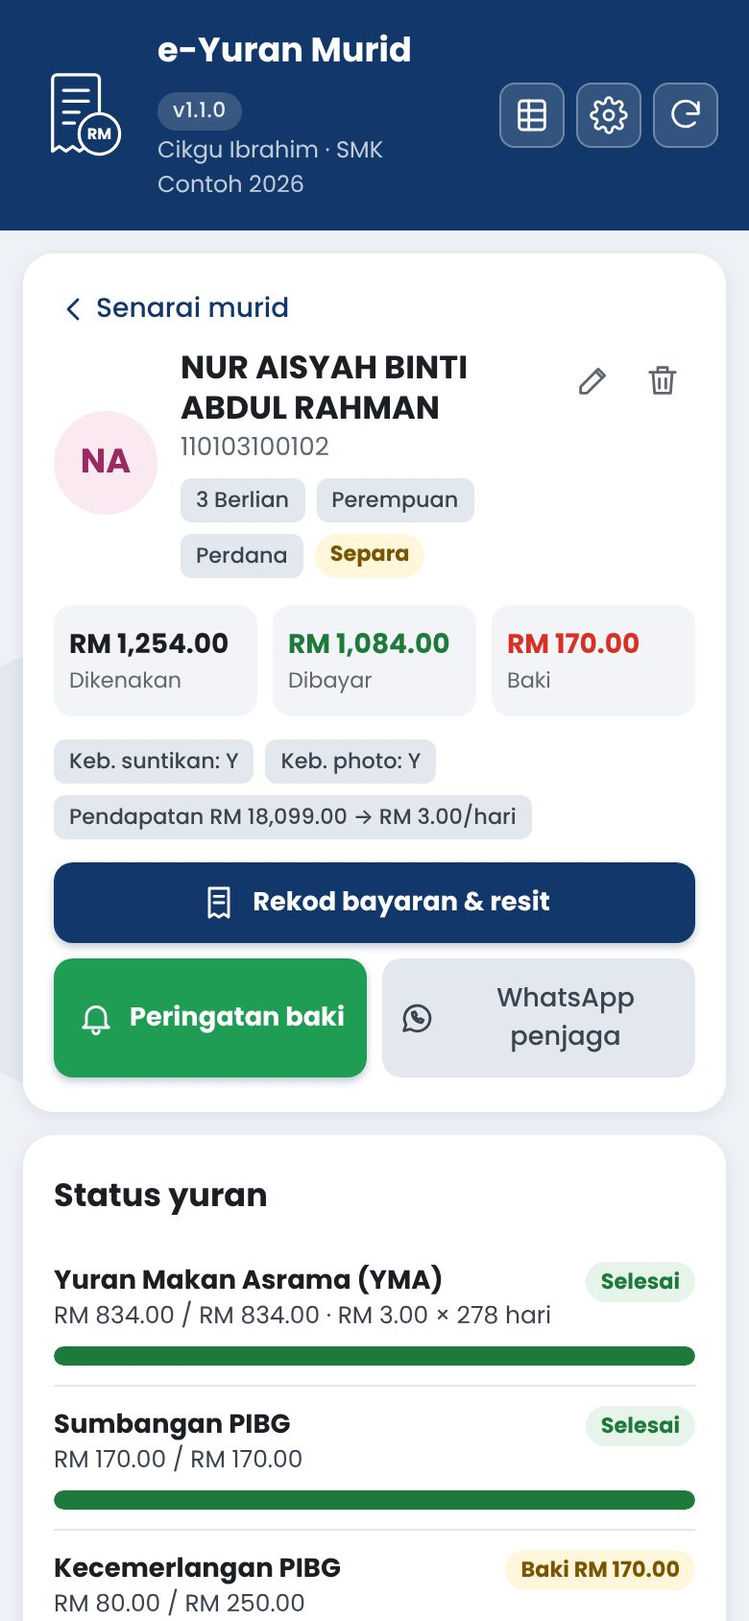
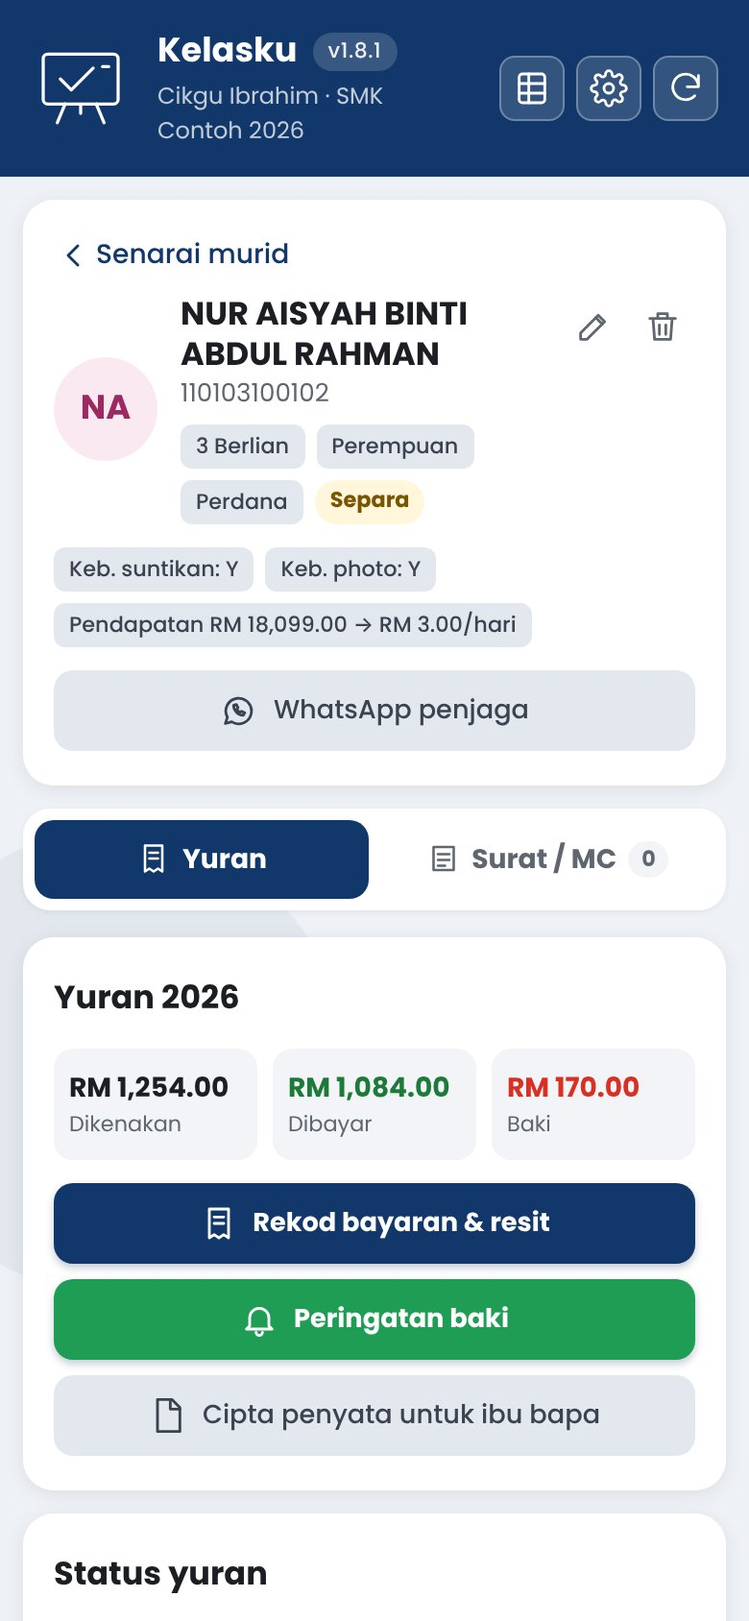
v1.8.1: Tab modul (Yuran / Surat MC) di halaman murid; README & halaman pengenalan disusun ikut modul
Claude-Session: https://claude.ai/code/session_01KuVRpLkTuLi7cEMoJuzni8

diff --git a/docs/index.html b/docs/index.html
@@ -4,9 +4,9 @@
 <meta charset="utf-8">
 <meta name="viewport" content="width=device-width, initial-scale=1">
 <title>Kelasku — pembantu digital guru kelas</title>
-<meta name="description" content="Web app percuma untuk guru merekod bayaran yuran murid (YMA, PIBG, dobi) ke Google Sheets, dengan resit dari WhatsApp ibu bapa, ringkasan kutipan dan mesej WhatsApp automatik.">
+<meta name="description" content="Kelasku — web app percuma untuk guru kelas: rekod yuran murid &amp; resit WhatsApp ibu bapa, simpan eviden surat sakit / MC dengan OCR, ringkasan kutipan dan mesej WhatsApp automatik. Data dalam Google Sheets &amp; Drive anda.">
 <meta property="og:title" content="Kelasku — pembantu digital guru kelas">
-<meta property="og:description" content="Rekod yuran murid & resit WhatsApp ibu bapa ke Google Sheets. Percuma, mesra telefon.">
+<meta property="og:description" content="Pembantu digital guru kelas: yuran &amp; resit, surat sakit / MC. Percuma, mesra telefon, data dalam Google Drive anda.">
 <meta property="og:image" content="https://g-03355699-tech.github.io/kelasku/skrin-1.jpg">
 <link rel="apple-touch-icon" href="app/ikon-180.png">
 <link rel="icon" type="image/png" href="app/ikon-192.png">
@@ -39,12 +39,13 @@ svg.ik{width:24px;height:24px;fill:none;stroke:currentColor;stroke-width:1.7;str
 section{padding:56px 0}
 h2{font-size:1.6rem;margin:0 0 6px}
 .sub{color:var(--kelabu);margin:0 0 28px}
+.modul{font-size:1.05rem;margin:26px 0 12px;display:flex;align-items:center;gap:8px}.modul span{font-size:.7rem;font-weight:600;background:var(--navy);color:#fff;border-radius:999px;padding:3px 10px;text-transform:uppercase;letter-spacing:.04em}
 .grid-ciri{display:grid;grid-template-columns:repeat(3,1fr);gap:16px}
 .ciri{background:#fff;border-radius:16px;padding:20px;box-shadow:0 2px 10px rgba(16,32,64,.06)}
 .ciri svg.ik{color:var(--navy);width:30px;height:30px}
 .ciri h3{font-size:1rem;margin:10px 0 4px}
 .ciri p{margin:0;font-size:.88rem;color:var(--kelabu)}
-.skrin{display:grid;grid-template-columns:repeat(3,1fr);gap:16px}
+.skrin{display:grid;grid-template-columns:repeat(4,1fr);gap:16px}
 .skrin figure{margin:0;background:#fff;border-radius:18px;padding:10px;box-shadow:0 2px 10px rgba(16,32,64,.06)}
 .skrin img{width:100%;border-radius:12px;display:block}
 .skrin figcaption{font-size:.82rem;color:var(--kelabu);text-align:center;margin-top:8px}
@@ -71,7 +72,7 @@ details.dev{background:#fff;border-radius:18px;padding:20px 24px;box-shadow:0 2p
 details.dev summary{cursor:pointer;font-weight:600;font-size:1.05rem}
 details.dev ol{padding-left:20px} details.dev li{margin-bottom:8px;font-size:.92rem}
 footer{text-align:center;color:var(--kelabu);font-size:.85rem;padding:30px 20px 50px}
-@media (max-width:760px){ .hero .grid{grid-template-columns:1fr} .qr{display:none} .grid-ciri{grid-template-columns:1fr 1fr} .skrin{grid-template-columns:1fr 1fr} .skrin figure:last-child{display:none} }
+@media (max-width:760px){ .hero .grid{grid-template-columns:1fr} .qr{display:none} .grid-ciri{grid-template-columns:1fr 1fr} .skrin{grid-template-columns:1fr 1fr} }
 @media (max-width:480px){ .grid-ciri{grid-template-columns:1fr} .butang{width:100%;justify-content:center} .l{padding-left:20px;padding-top:62px} }
 </style>
 </head>
@@ -101,7 +102,7 @@ footer{text-align:center;color:var(--kelabu);font-size:.85rem;padding:30px 20px 
           <path d="M19 26l7 7 14-14"/>
           <path d="M46 18h4"/>
         </svg>
-        <h1>Kelasku <span class="versi">v1.8.0</span></h1>
+        <h1>Kelasku <span class="versi">v1.8.1</span></h1>
         <p class="lead">Pembantu digital guru kelas. Rekod bayaran yuran murid (YMA, PIBG, dobi dan lain-lain) dan simpan eviden surat sakit / MC terus dari telefon. Ibu bapa hantar resit atau surat melalui WhatsApp, guru muat naik ke app, dan semuanya tersusun dalam Google Sheet. <b>Percuma</b>, dan data disimpan dalam Google Drive anda sendiri.</p>
         <div class="aksi">
           <a class="butang" id="btnBuka" href="#" target="_blank" rel="noopener">Buka App →</a>
@@ -117,22 +118,30 @@ footer{text-align:center;color:var(--kelabu);font-size:.85rem;padding:30px 20px 
 <section>
   <div class="bekas">
     <h2>Apa yang boleh dibuat</h2>
-    <p class="sub">Dibina untuk guru kelas dan guru asrama yang mengutip yuran — tanpa menyalin resit satu per satu ke dalam Excel.</p>
+    <p class="sub">Satu app untuk urusan harian guru kelas. Setiap murid mempunyai tab modul — <b>Yuran</b> dan <b>Surat / MC</b> — dan lebih banyak modul akan ditambah.</p>
+    <h3 class="modul"><span>Modul</span> Yuran &amp; resit</h3>
     <div class="grid-ciri">
       <div class="ciri"><svg class="ik"><use href="#i-resit"/></svg><h3>Resit dari WhatsApp</h3><p>Muat naik gambar atau PDF resit. Di komputer, salin gambar dalam WhatsApp Web dan tekan <b>Ctrl+V</b> — siap.</p></div>
       <div class="ciri"><svg class="ik"><use href="#i-ocr"/></svg><h3>Baca resit automatik</h3><p>Selepas resit dimuat naik, app membaca jumlah, tarikh, No. rujukan &amp; bank (OCR Google Drive) dan mengisi borang untuk anda semak.</p></div>
-      <div class="ciri"><svg class="ik"><use href="#i-pdf"/></svg><h3>Eviden surat sakit / MC</h3><p>Simpan surat sakit atau surat sebab (gambar / PDF) yang dihantar ibu bapa melalui WhatsApp. App membaca surat dan mengisi tarikh tidak hadir, jenis surat &amp; catatan secara automatik, serta menyemak nama murid.</p></div>
-      <div class="ciri"><svg class="ik"><use href="#i-pdf"/></svg><h3>Penyata untuk ibu bapa</h3><p>Pautan PDF penyata yuran setiap murid — ibu bapa boleh semak status &amp; baki bila-bila masa tanpa log masuk. Dikemas kini automatik.</p></div>
-      <div class="ciri"><svg class="ik"><use href="#i-log"/></svg><h3>Log audit &amp; Sampah</h3><p>Setiap tambah, ubah &amp; padam direkodkan (siapa, bila, sebelum → selepas). Bayaran dipadam masuk Sampah dan boleh dipulihkan.</p></div>
       <div class="ciri"><svg class="ik"><use href="#i-agih"/></svg><h3>Satu resit, banyak yuran</h3><p>Isi jumlah resit dan tekan <i>Agih automatik</i> — dibahagikan kepada YMA, PIBG dan lain-lain ikut baki.</p></div>
       <div class="ciri"><svg class="ik"><use href="#i-carta"/></svg><h3>Ringkasan kutipan</h3><p>Jumlah kutipan, tertunggak dan peratus setiap yuran bagi setiap kelas. Tapis murid: belum bayar, separa, selesai.</p></div>
       <div class="ciri"><svg class="ik"><use href="#i-wa"/></svg><h3>Peringatan pukal WhatsApp</h3><p>Mesej peribadi untuk setiap penjaga (bapa &amp; ibu) dengan baki dan akaun bank setiap yuran — tekan Hantar, app terus ke penjaga seterusnya.</p></div>
+      <div class="ciri"><svg class="ik"><use href="#i-pdf"/></svg><h3>Penyata untuk ibu bapa</h3><p>Pautan PDF penyata yuran setiap murid — ibu bapa boleh semak status &amp; baki bila-bila masa tanpa log masuk. Dikemas kini automatik.</p></div>
       <div class="ciri"><svg class="ik"><use href="#i-kalkulator"/></svg><h3>YMA ikut pendapatan</h3><p>Kadar harian dikira daripada pendapatan isi rumah (cth. RM1 atau RM3 sehari × 278 hari). Boleh ditetapkan manual.</p></div>
       <div class="ciri"><svg class="ik"><use href="#i-hati"/></svg><h3>Penaja</h3><p>Zakat, Yayasan Sarawak, Yayasan Sabah… Yuran tetap dikenakan penuh; bayaran penaja direkod berasingan dan ibu bapa tidak diminta membayar bahagian itu.</p></div>
-      <div class="ciri"><svg class="ik"><use href="#i-guru"/></svg><h3>Kongsi dengan guru lain</h3><p>Jemput guru lain melalui pautan WhatsApp. Hadkan setiap guru kepada kelas mereka sahaja.</p></div>
       <div class="ciri"><svg class="ik"><use href="#i-amaran"/></svg><h3>Elak resit berganda</h3><p>Amaran jika No. rujukan yang sama sudah pernah direkod untuk mana-mana murid.</p></div>
-      <div class="ciri"><svg class="ik"><use href="#i-sheet"/></svg><h3>Data dalam Google Sheets</h3><p>Import senarai murid dari Sheet lama dengan salin &amp; tampal. Jana tab Ringkasan untuk dicetak.</p></div>
     </div>
+    <h3 class="modul"><span>Modul</span> Surat / MC ketidakhadiran</h3>
+    <div class="grid-ciri">
+      <div class="ciri"><svg class="ik"><use href="#i-pdf"/></svg><h3>Eviden surat sakit / MC</h3><p>Simpan surat sakit atau surat sebab (gambar / PDF) yang dihantar ibu bapa melalui WhatsApp. Fail disimpan dalam Google Drive mengikut kelas, dan pengesahan “surat diterima” boleh dihantar kepada penjaga.</p></div>
+      <div class="ciri"><svg class="ik"><use href="#i-ocr"/></svg><h3>Baca surat automatik</h3><p>Tarikh tidak hadir (julat atau tarikh + bil. hari), jenis surat, klinik &amp; sebab diisi automatik. Amaran jika nama murid tiada dalam surat.</p></div>
+      <div class="ciri"><svg class="ik"><use href="#i-carta"/></svg><h3>Senarai eviden kelas</h3><p>Semua surat bagi kelas di satu halaman — cari nama, tapis ikut bulan, buka fail asal. Sedia untuk semakan pentadbir.</p></div>
+    </div>
+    <h3 class="modul"><span>Umum</span> Untuk semua modul</h3>
+    <div class="grid-ciri">
+      <div class="ciri"><svg class="ik"><use href="#i-guru"/></svg><h3>Kongsi dengan guru lain</h3><p>Jemput guru lain melalui pautan WhatsApp. Hadkan setiap guru kepada kelas mereka sahaja.</p></div>
+      <div class="ciri"><svg class="ik"><use href="#i-log"/></svg><h3>Log audit &amp; Sampah</h3><p>Setiap tambah, ubah &amp; padam direkodkan (siapa, bila, sebelum → selepas). Bayaran dipadam masuk Sampah dan boleh dipulihkan.</p></div>
+      <div class="ciri"><svg class="ik"><use href="#i-sheet"/></svg><h3>Data dalam Google Sheets</h3><p>Import senarai murid dari Sheet lama dengan salin &amp; tampal. Jana tab Ringkasan untuk dicetak.</p></div>
   </div>
 </section>
 
@@ -140,8 +149,9 @@ footer{text-align:center;color:var(--kelabu);font-size:.85rem;padding:30px 20px 
   <div class="bekas">
     <div class="skrin">
       <figure><img src="skrin-1.jpg" alt="Ringkasan kutipan dan senarai murid" loading="lazy"><figcaption>Ringkasan kutipan &amp; senarai murid</figcaption></figure>
-      <figure><img src="skrin-2.jpg" alt="Butiran murid, status yuran dan sejarah bayaran" loading="lazy"><figcaption>Status yuran setiap murid</figcaption></figure>
-      <figure><img src="skrin-3.jpg" alt="Borang rekod bayaran dengan resit" loading="lazy"><figcaption>Rekod bayaran &amp; resit</figcaption></figure>
+      <figure><img src="skrin-2.jpg" alt="Butiran murid, status yuran dan sejarah bayaran" loading="lazy"><figcaption>Halaman murid · tab Yuran</figcaption></figure>
+      <figure><img src="skrin-3.jpg" alt="Borang rekod bayaran dengan resit" loading="lazy"><figcaption>Rekod bayaran &amp; resit (OCR)</figcaption></figure>
+      <figure><img src="skrin-4.jpg" alt="Borang simpan surat sakit / MC dengan OCR" loading="lazy"><figcaption>Simpan surat / MC (OCR)</figcaption></figure>
     </div>
     <p class="sub" style="text-align:center;margin-top:10px;font-size:.8rem">Tangkapan skrin menggunakan data rekaan.</p>
   </div>
@@ -150,7 +160,7 @@ footer{text-align:center;color:var(--kelabu);font-size:.85rem;padding:30px 20px 
 <section id="mula" style="padding-top:0">
   <div class="bekas">
     <h2>Cara mula (kali pertama sahaja)</h2>
-    <p class="sub">Untuk guru yang menguruskan yuran kelas atau sekolah. Ambil masa kira-kira 2 minit.</p>
+    <p class="sub">Untuk guru kelas (atau guru yang menguruskan yuran sekolah). Ambil masa kira-kira 2 minit.</p>
     <div class="langkah">
       <div class="l"><h3>Tekan “Buka App”</h3><p>Di telefon atau komputer. Di komputer, anda juga boleh imbas kod QR di atas dengan telefon.</p></div>
       <div class="l"><h3>Log masuk akaun Google</h3><p>Pilih akaun yang mahu digunakan. Sheet <i>Kelasku</i> akan dicipta dalam Google Drive akaun ini.
@@ -182,12 +192,19 @@ footer{text-align:center;color:var(--kelabu);font-size:.85rem;padding:30px 20px 
 <section style="padding-top:0">
   <div class="bekas">
     <h2>Rutin harian: dari WhatsApp ke Kelasku</h2>
-    <p class="sub">Kurang seminit bagi setiap resit.</p>
+    <p class="sub">Kurang seminit bagi setiap resit atau surat.</p>
+    <h3 style="margin:0 0 10px">Resit bayaran yuran</h3>
     <div class="langkah">
       <div class="l wa"><h3>Ibu bapa hantar resit melalui WhatsApp</h3><p>Gambar resit bank, tangkapan skrin FPX atau PDF.</p></div>
       <div class="l"><h3>Cari murid &amp; tekan “Rekod bayaran &amp; resit”</h3><p>Taip sebahagian nama atau No. KP. Di telefon, simpan gambar dari WhatsApp ke galeri dahulu; di komputer, salin gambar dalam WhatsApp Web dan tekan <b>Ctrl+V</b>.</p></div>
       <div class="l"><h3>Semak maklumat yang diisi automatik</h3><p>App membaca resit dan mengisi jumlah, tarikh, No. rujukan &amp; bank (ditanda kuning), kemudian mengagihkan jumlah kepada yuran. Semak, betulkan jika perlu, dan tekan <b>Simpan</b>.</p></div>
       <div class="l wa"><h3>Hantar pengesahan kepada penjaga</h3><p>App menawarkan mesej WhatsApp siap ditulis: senarai bayaran yang diterima, baki tertunggak, dan pautan penyata (jika dicipta) supaya penjaga boleh menyemak sendiri selepas ini.</p></div>
+    </div>
+    <h3 style="margin:22px 0 10px">Surat sakit / MC</h3>
+    <div class="langkah">
+      <div class="l wa"><h3>Ibu bapa hantar surat melalui WhatsApp</h3><p>Gambar MC klinik, surat sebab, atau PDF.</p></div>
+      <div class="l"><h3>Buka murid → tab “Surat / MC” → “Simpan surat / MC”</h3><p>Lampirkan gambar atau PDF (boleh lebih satu). App membaca surat dan mengisi tarikh, jenis &amp; catatan — semak, kemudian <b>Simpan</b>.</p></div>
+      <div class="l wa"><h3>Maklumkan surat telah diterima</h3><p>Pilihan mesej WhatsApp ringkas kepada penjaga. Semua surat kelas boleh dilihat di halaman <i>Eviden surat / MC</i>.</p></div>
     </div>
   </div>
 </section>

diff --git a/Index.html b/Index.html
@@ -176,6 +176,12 @@
     .resit-ada img { width: 72px; height: 72px; object-fit: cover; border-radius: 8px; border: 1px solid var(--garis); cursor: zoom-in; }
     .resit-ada .ket { flex: 1; min-width: 0; font-size: .82rem; }
     .resit-ada .ket b { font-size: .88rem; }
+    .tab-modul { display: flex; gap: 6px; background: #fff; border-radius: 14px; padding: 6px; margin-bottom: 14px; box-shadow: 0 1px 3px rgba(16,40,80,.06); position: sticky; top: 6px; z-index: 5; }
+    .tab-modul button { flex: 1; font-family: inherit; font-size: .88rem; font-weight: 600; padding: 10px 8px; border: 0; border-radius: 10px; background: transparent; color: var(--kelabu); cursor: pointer; display: flex; align-items: center; justify-content: center; gap: 6px; }
+    .tab-modul button svg { width: 18px; height: 18px; }
+    .tab-modul button.on { background: var(--navy); color: #fff; }
+    .tab-modul .bil { font-size: .7rem; background: rgba(255,255,255,.25); border-radius: 999px; padding: 1px 7px; }
+    .tab-modul button:not(.on) .bil { background: var(--jubin); }
     .pdf-kecil { width: 56px; height: 56px; border-radius: 8px; background: #fff; border: 1px solid var(--garis); display: grid; place-items: center; color: var(--navy); flex: none; }
     .pdf-kecil svg { width: 26px; height: 26px; }
     .pdf-kecil { display: inline-flex; align-items: center; gap: 6px; font-size: .8rem; color: var(--navy); max-width: 100%;
@@ -698,7 +704,7 @@
     window.scrollTo({ top: 0, behavior: 'smooth' });
   }
 
-  const VERSI_UI = '1.8.0';
+  const VERSI_UI = '1.8.1';
   const PANDUAN_KEMAS = 'Salin Code.gs terkini dari GitHub ke projek Apps Script, tekan Simpan, kemudian Deploy → Manage deployments → ✏ Edit → Version: New version → Deploy.';
   function run(fn, ...arg) {
     return new Promise((ok, gagal) => {
@@ -940,6 +946,13 @@
   }
 
   /* ---------- Butiran murid ---------- */
+  let tabMurid = 'yuran';
+  function tukarTabMurid(t) {
+    tabMurid = t;
+    $('tabYuran').classList.toggle('tersembunyi', t !== 'yuran');
+    $('tabSurat').classList.toggle('tersembunyi', t !== 'surat');
+    document.querySelectorAll('#vMurid .tab-modul button').forEach((b, i) => b.classList.toggle('on', (i === 0) === (t === 'yuran')));
+  }
   function bukaMurid(kp) {
     const m = D.muridIkutKp[kp];
     if (!m) return kembali();
@@ -968,13 +981,6 @@
             ${D.user.peranan === 'ADMIN' ? `<button class="ikon-btn bahaya" title="Padam murid" onclick="padamMurid('${m.kp}')">${ik('padam')}</button>` : ''}
           </div>
         </div>
-        <div class="info">
-          <div><b>${rm(h.caj)}</b><span>Dikenakan</span></div>
-          <div><b style="color:var(--hijau)">${rm(h.bayar)}</b><span>Dibayar</span></div>
-          <div><b style="color:${h.bakiIbu > 0 ? 'var(--merah)' : h.baki > 0 ? 'var(--biru)' : 'var(--hijau)'}">${rm(h.baki)}</b><span>Baki${h.bakiPenaja > 0 ? ` · ${rm(h.bakiPenaja)} penaja` : ''}</span></div>
-        </div>
-        ${m.penaja ? `<div class="banner ok">${ik('semak')}<div><b style="display:block">Ditaja: ${esc(m.penaja)}</b>Yuran dibayar oleh penaja: ${m.ditaja.length ? m.ditaja.map(k => esc(namaYuran(k))).join(', ') : 'semua yuran'}.
-          ${h.bakiPenaja > 0 ? `<br>Menunggu bayaran penaja: <b style="display:inline">${rm(h.bakiPenaja)}</b> <button class="pautan" onclick="bukaBayar('${m.kp}', null, true)">Rekod bayaran penaja ›</button>` : '<br>Bayaran penaja telah diterima.'}</div></div>` : ''}
         <div class="lencana-baris" style="margin-top:12px">
           <span class="lencana">Keb. suntikan: ${m.suntikan || '-'}</span>
           <span class="lencana">Keb. photo: ${m.photo || '-'}</span>
@@ -984,9 +990,27 @@
         </div>
         ${m.catatan ? `<div class="rekod" style="margin-top:10px"><div class="catatan" style="margin:0">${esc(m.catatan)}</div></div>` : ''}
         <div class="aksi-grid">
+          <button class="btn sekunder penuh" onclick="bukaWa('${m.kp}', '')">${ik('wa')}WhatsApp penjaga</button>
+        </div>
+      </section>
+
+      <div class="tab-modul">
+        <button class="${tabMurid === 'yuran' ? 'on' : ''}" onclick="tukarTabMurid('yuran')">${ik('resit')}Yuran</button>
+        <button class="${tabMurid === 'surat' ? 'on' : ''}" onclick="tukarTabMurid('surat')">${ik('nota')}Surat / MC <span class="bil">${suratMurid(m.kp).length}</span></button>
+      </div>
+      <div id="tabYuran" class="${tabMurid === 'yuran' ? '' : 'tersembunyi'}">
+      <section class="kad">
+        <h2>Yuran ${esc(D.tetapan.tahun || '')}</h2>
+        <div class="info">
+          <div><b>${rm(h.caj)}</b><span>Dikenakan</span></div>
+          <div><b style="color:var(--hijau)">${rm(h.bayar)}</b><span>Dibayar</span></div>
+          <div><b style="color:${h.bakiIbu > 0 ? 'var(--merah)' : h.baki > 0 ? 'var(--biru)' : 'var(--hijau)'}">${rm(h.baki)}</b><span>Baki${h.bakiPenaja > 0 ? ` · ${rm(h.bakiPenaja)} penaja` : ''}</span></div>
+        </div>
+        ${m.penaja ? `<div class="banner ok">${ik('semak')}<div><b style="display:block">Ditaja: ${esc(m.penaja)}</b>Yuran dibayar oleh penaja: ${m.ditaja.length ? m.ditaja.map(k => esc(namaYuran(k))).join(', ') : 'semua yuran'}.
+          ${h.bakiPenaja > 0 ? `<br>Menunggu bayaran penaja: <b style="display:inline">${rm(h.bakiPenaja)}</b> <button class="pautan" onclick="bukaBayar('${m.kp}', null, true)">Rekod bayaran penaja ›</button>` : '<br>Bayaran penaja telah diterima.'}</div></div>` : ''}
+        <div class="aksi-grid">
           <button class="btn penuh" onclick="bukaBayar('${m.kp}')">${ik('resit')}Rekod bayaran &amp; resit</button>
-          <button class="btn wa" onclick="waPeringatan('${m.kp}')" ${h.bakiIbu > 0 ? '' : 'disabled'} title="${h.bakiIbu > 0 ? '' : 'Tiada baki perlu dibayar oleh ibu bapa'}">${ik('loceng')}Peringatan baki</button>
-          <button class="btn sekunder" onclick="bukaWa('${m.kp}', '')">${ik('wa')}WhatsApp penjaga</button>
+          <button class="btn wa penuh" onclick="waPeringatan('${m.kp}')" ${h.bakiIbu > 0 ? '' : 'disabled'} title="${h.bakiIbu > 0 ? '' : 'Tiada baki perlu dibayar oleh ibu bapa'}">${ik('loceng')}Peringatan baki</button>
           <button class="btn sekunder penuh" id="btnPenyata" onclick="bukaPenyata('${m.kp}')">${ik('pdf')}${m.penyataUrl ? 'Penyata ibu bapa (pautan aktif)' : 'Cipta penyata untuk ibu bapa'}</button>
         </div>
       </section>
@@ -1035,8 +1059,11 @@
             </div>
           </div>`).join('') || '<div class="kosong">Belum ada bayaran direkodkan.</div>'}
       </section>
-      ${seksyenSurat(m)}
       ${lukisSampah(D.sampah.filter(b => b.kp === m.kp), false)}
+      </div>
+      <div id="tabSurat" class="${tabMurid === 'surat' ? '' : 'tersembunyi'}">
+      ${seksyenSurat(m)}
+      </div>
       <section class="kad">
         <details class="lipat" ontoggle="if(this.open) muatLog('${m.kp}', 'logMurid')">
           <summary>Sejarah perubahan (log)</summary>
@@ -1337,6 +1364,7 @@
   let idEditBayar = null, resitBaru = null, buangResitLama = false, resitLama = null, pratontonUrl = '';
 
   function bukaBayar(kp, id, modPenaja) {
+    tabMurid = 'yuran';
     const m = D.muridIkutKp[kp];
     kpSemasa = kp;
     idEditBayar = id || null;
@@ -1575,7 +1603,7 @@
 
   function htmlSenaraiSurat(senarai, tunjukNama) {
     return senarai.map(x => `
-      <div class="rekod ${tunjukNama ? 'klik' : ''}" style="border-left-color:var(--biru)" ${tunjukNama ? `onclick="bukaMurid('${x.kp}')"` : ''}>
+      <div class="rekod ${tunjukNama ? 'klik' : ''}" style="border-left-color:var(--biru)" ${tunjukNama ? `onclick="tabMurid='surat';bukaMurid('${x.kp}')"` : ''}>
         <div style="min-width:0">
           ${tunjukNama ? `<div class="tajuk-r">${esc(x.nama)}</div><div class="catatan" style="margin-top:0">${esc(x.kelas)}</div>` : ''}
           <div class="${tunjukNama ? 'item-b' : 'tajuk-r'}">${esc(julatTarikh(x.mula, x.akhir))} <span class="kecil">(${bilHari(x.mula, x.akhir)} hari)</span></div>
@@ -1607,6 +1635,7 @@
   }
 
   function bukaSurat(kp, id) {
+    tabMurid = 'surat';
     const m = D.muridIkutKp[kp];
     kpSemasa = kp;
     const x = id ? (D.surat || []).find(s => s.id === id) : null;

diff --git a/README.md b/README.md
@@ -1,8 +1,8 @@
-# 🏫 Kelasku `v1.8.0`
+# 🏫 Kelasku `v1.8.1`
 
 *Dahulu dikenali sebagai **e-Yuran Murid**.* Pembantu digital guru kelas: yuran murid & resit WhatsApp, eviden surat / MC, dan lebih banyak modul akan datang.
 
-Web app percuma untuk guru merekod bayaran **yuran murid** (YMA, PIBG, dobi dan lain-lain) ke **Google Sheets**, dengan **resit dari WhatsApp ibu bapa** disimpan di Google Drive. Dibina dengan **Google Apps Script**, mesra telefon.
+Web app percuma untuk **guru kelas**: rekod bayaran **yuran murid** (YMA, PIBG, dobi dan lain-lain) dengan **resit dari WhatsApp ibu bapa**, dan simpan **eviden surat sakit / MC** — semuanya dalam **Google Sheets** & Google Drive guru sendiri. Dibina dengan **Google Apps Script**, mesra telefon.
 
 **🔗 Buka app & panduan:** https://g-03355699-tech.github.io/kelasku/
 
@@ -10,11 +10,12 @@ Web app percuma untuk guru merekod bayaran **yuran murid** (YMA, PIBG, dobi dan 
 
 ## Ciri-ciri
 
-- **Satu web app untuk semua guru** — kali pertama dibuka, Sheet *Kelasku* dicipta automatik dalam Google Drive guru tersebut.
+Halaman setiap murid mempunyai **tab modul**: *Yuran* dan *Surat / MC*. Modul baharu akan ditambah sebagai tab seterusnya.
+
+### Modul Yuran & resit
+
 - **Resit dari WhatsApp** — pilih/ambil gambar, pilih PDF, seret fail, atau **tampal (Ctrl+V)** gambar yang disalin dari WhatsApp Web. Gambar dimampatkan di pelayar sebelum dimuat naik.
 - **Baca resit automatik (OCR)** — jumlah, tarikh, No. rujukan, bank & kaedah dibaca daripada resit melalui OCR Google Drive dan diisi ke borang (ditanda kuning untuk disemak).
-- **Penyata untuk ibu bapa** — PDF penyata yuran setiap murid dalam Drive guru, dikongsi “sesiapa yang ada pautan”, dikemas kini automatik setiap kali bayaran berubah; pautan disertakan dalam mesej WhatsApp. Boleh ditarik balik.
-- **Log audit & Sampah** — tab `Log` merekod setiap tambah/ubah/padam (siapa, bila, sebelum → selepas). Bayaran dipadam masuk Sampah dan boleh dipulihkan; padam kekal oleh pentadbir sahaja.
 - **Satu resit, banyak yuran** — isi jumlah resit, tekan *Agih automatik* untuk dibahagikan ikut baki setiap yuran. Bayaran ansuran disokong.
 - **Ringkasan kutipan** setiap kelas: kutipan, tertunggak, murid selesai, peratus setiap yuran.
 - **Senarai murid** dengan carian (nama / No KP) dan tapisan *Belum bayar · Separa · Selesai · Ditaja*.
@@ -22,18 +23,31 @@ Web app percuma untuk guru merekod bayaran **yuran murid** (YMA, PIBG, dobi dan 
 - **Penaja** (Zakat, Yayasan Sarawak, Yayasan Sabah…) untuk semua yuran atau yuran tertentu. Yuran yang ditaja **tetap dikenakan penuh** supaya kutipan tally; bayaran penaja direkod dengan kaedah *Tajaan / Penaja* (butang *Rekod bayaran penaja* mengisi borang secara automatik). Baki dibahagi kepada *baki ibu bapa* dan *menunggu penaja* — peringatan WhatsApp hanya meminta bahagian ibu bapa.
 - **Akaun bayaran setiap yuran** — bank, No. akaun & nama pemegang ditetapkan dalam Tetapan; dipaparkan dalam mesej WhatsApp (dikumpul ikut akaun), penyata ibu bapa dan borang bayaran. OCR memadankan akaun penerima dalam resit untuk mengagihkan bayaran kepada yuran yang betul.
 - **Peringatan pukal WhatsApp** — pilih murid *Belum bayar / Separa* dalam kelas, kemudian tekan **Hantar** bagi setiap penjaga; mesej peribadi (baki, akaun bayaran, pautan penyata) sudah siap, dan app terus ke penjaga seterusnya. Pilih *penjaga utama sahaja* atau *bapa & ibu*; murid yang sudah diingatkan dalam N hari dilangkau. Tarikh peringatan direkodkan. Butang *Salin makluman am* untuk Senarai Siaran.
-- **Dua nombor penjaga** (bapa / ibu) — butang WhatsApp bertanya nombor mana. Jika tiada nombor dalam Sheet, guru boleh taip nombor (dan simpan ke Sheet) atau pilih kenalan/chat terus dalam WhatsApp; import no. telefon secara pukal (No KP, tel bapa, tel ibu).
 - **WhatsApp** — pengesahan penerimaan bayaran & peringatan baki, siap ditulis.
 - **Amaran resit berganda** jika No. rujukan sudah pernah direkod.
-- **Import pukal** — salin baris dari Google Sheet lama dan tampal.
+- **Penyata untuk ibu bapa** — PDF penyata yuran setiap murid dalam Drive guru, dikongsi “sesiapa yang ada pautan”, dikemas kini automatik setiap kali bayaran berubah; pautan disertakan dalam mesej WhatsApp. Boleh ditarik balik.
 - **Cetak resit penerimaan** — butang 🖨 pada setiap bayaran: pratonton resit (No. resit, murid, butiran yuran, jumlah dalam angka & perkataan, kaedah/bank/rujukan, catatan, dan lampiran gambar resit pembayaran), kemudian *Cetak* (A4) atau *Muat turun PDF*.
-- **Eviden surat / MC ketidakhadiran** — dalam halaman murid, tekan *Simpan surat / MC*: tarikh tidak hadir (dari–hingga), jenis surat, catatan (tampal mesej WhatsApp ibu bapa) dan satu atau lebih gambar/PDF surat (pilih, ambil gambar, Ctrl+V atau seret). Fail disimpan dalam folder Drive *Eviden Surat Kelasku / <kelas>* dan direkod dalam tab `Surat`. Halaman *Eviden surat / MC* menyenaraikan semua surat kelas dengan carian & tapisan bulan. **OCR surat:** selepas fail dilampirkan, app membaca surat dan mengisi tarikh tidak hadir (julat *dari–hingga* atau tarikh + bil. hari), jenis surat dan catatan (klinik, sebab/diagnosis) secara automatik, serta memberi amaran jika nama murid tidak dijumpai dalam surat. Pilihan WhatsApp pengesahan “surat telah diterima”. (Kehadiran harian tidak direkod.)
 - **Jana tab Ringkasan** dalam Google Sheet.
+
+### Modul Surat / MC ketidakhadiran
+
+- **Simpan eviden** — buka murid → tab *Surat / MC* → *Simpan surat / MC*: tarikh tidak hadir (dari–hingga), jenis surat (*Surat sakit / MC · Surat ibu bapa · Surat rasmi / pertandingan · Lain-lain*), catatan (tampal mesej WhatsApp ibu bapa) dan satu atau lebih gambar/PDF (pilih, ambil gambar, Ctrl+V atau seret).
+- **Baca surat automatik (OCR)** — tarikh tidak hadir (julat *dari–hingga* atau tarikh + bil. hari), jenis surat, klinik dan sebab/diagnosis diisi automatik (ditanda kuning untuk disemak). Amaran jika nama murid tidak dijumpai dalam surat.
+- **Senarai eviden kelas** — butang *Eviden surat / MC ketidakhadiran* menyenaraikan semua surat bagi kelas, dengan carian & tapisan bulan.
+- **Storan** — fail asal dalam folder Drive *Eviden Surat Kelasku / <kelas>*, rekod dalam tab `Surat`; guru lain yang dikongsi boleh melihat fail. Pilihan WhatsApp pengesahan “surat telah diterima”.
+- Kehadiran harian **tidak** direkod — gunakan sistem kehadiran sedia ada.
+
+### Umum
+
+- **Satu web app untuk semua guru** — kali pertama dibuka, Sheet *Kelasku* dicipta automatik dalam Google Drive guru tersebut.
+- **Dua nombor penjaga** (bapa / ibu) — butang WhatsApp bertanya nombor mana. Jika tiada nombor dalam Sheet, guru boleh taip nombor (dan simpan ke Sheet) atau pilih kenalan/chat terus dalam WhatsApp; import no. telefon secara pukal (No KP, tel bapa, tel ibu).
 - **Kongsi dengan guru lain** — tambah emel guru (peranan & had kelas), Sheet dikongsi automatik, hantar pautan jemputan `…/exec?sertai=ID` melalui WhatsApp. Guru boleh bertukar antara beberapa Sheet.
+- **Log audit & Sampah** — tab `Log` merekod setiap tambah/ubah/padam (siapa, bila, sebelum → selepas). Bayaran dipadam masuk Sampah dan boleh dipulihkan; padam kekal oleh pentadbir sahaja.
+- **Import pukal** — salin baris dari Google Sheet lama dan tampal.
 
 ## Pemasangan (pembangun)
 
-1. Buka [script.google.com](https://script.google.com/home/projects/create) → **New project**.
+1. Buka [script.google.com](https://script.google.com/home/projects/create) → **New project**, namakan **Kelasku** (nama ini dipaparkan pada skrin kebenaran Google).
 2. Salin `Code.gs`, dan `Index.html` (Fail → HTML, nama `Index`).
 3. ⚙ **Project Settings** → tandakan *Show "appsscript.json"* → ganti dengan `appsscript.json` dari repo ini (mengaktifkan Drive API v3).
 4. **Deploy → New deployment → Web app**
